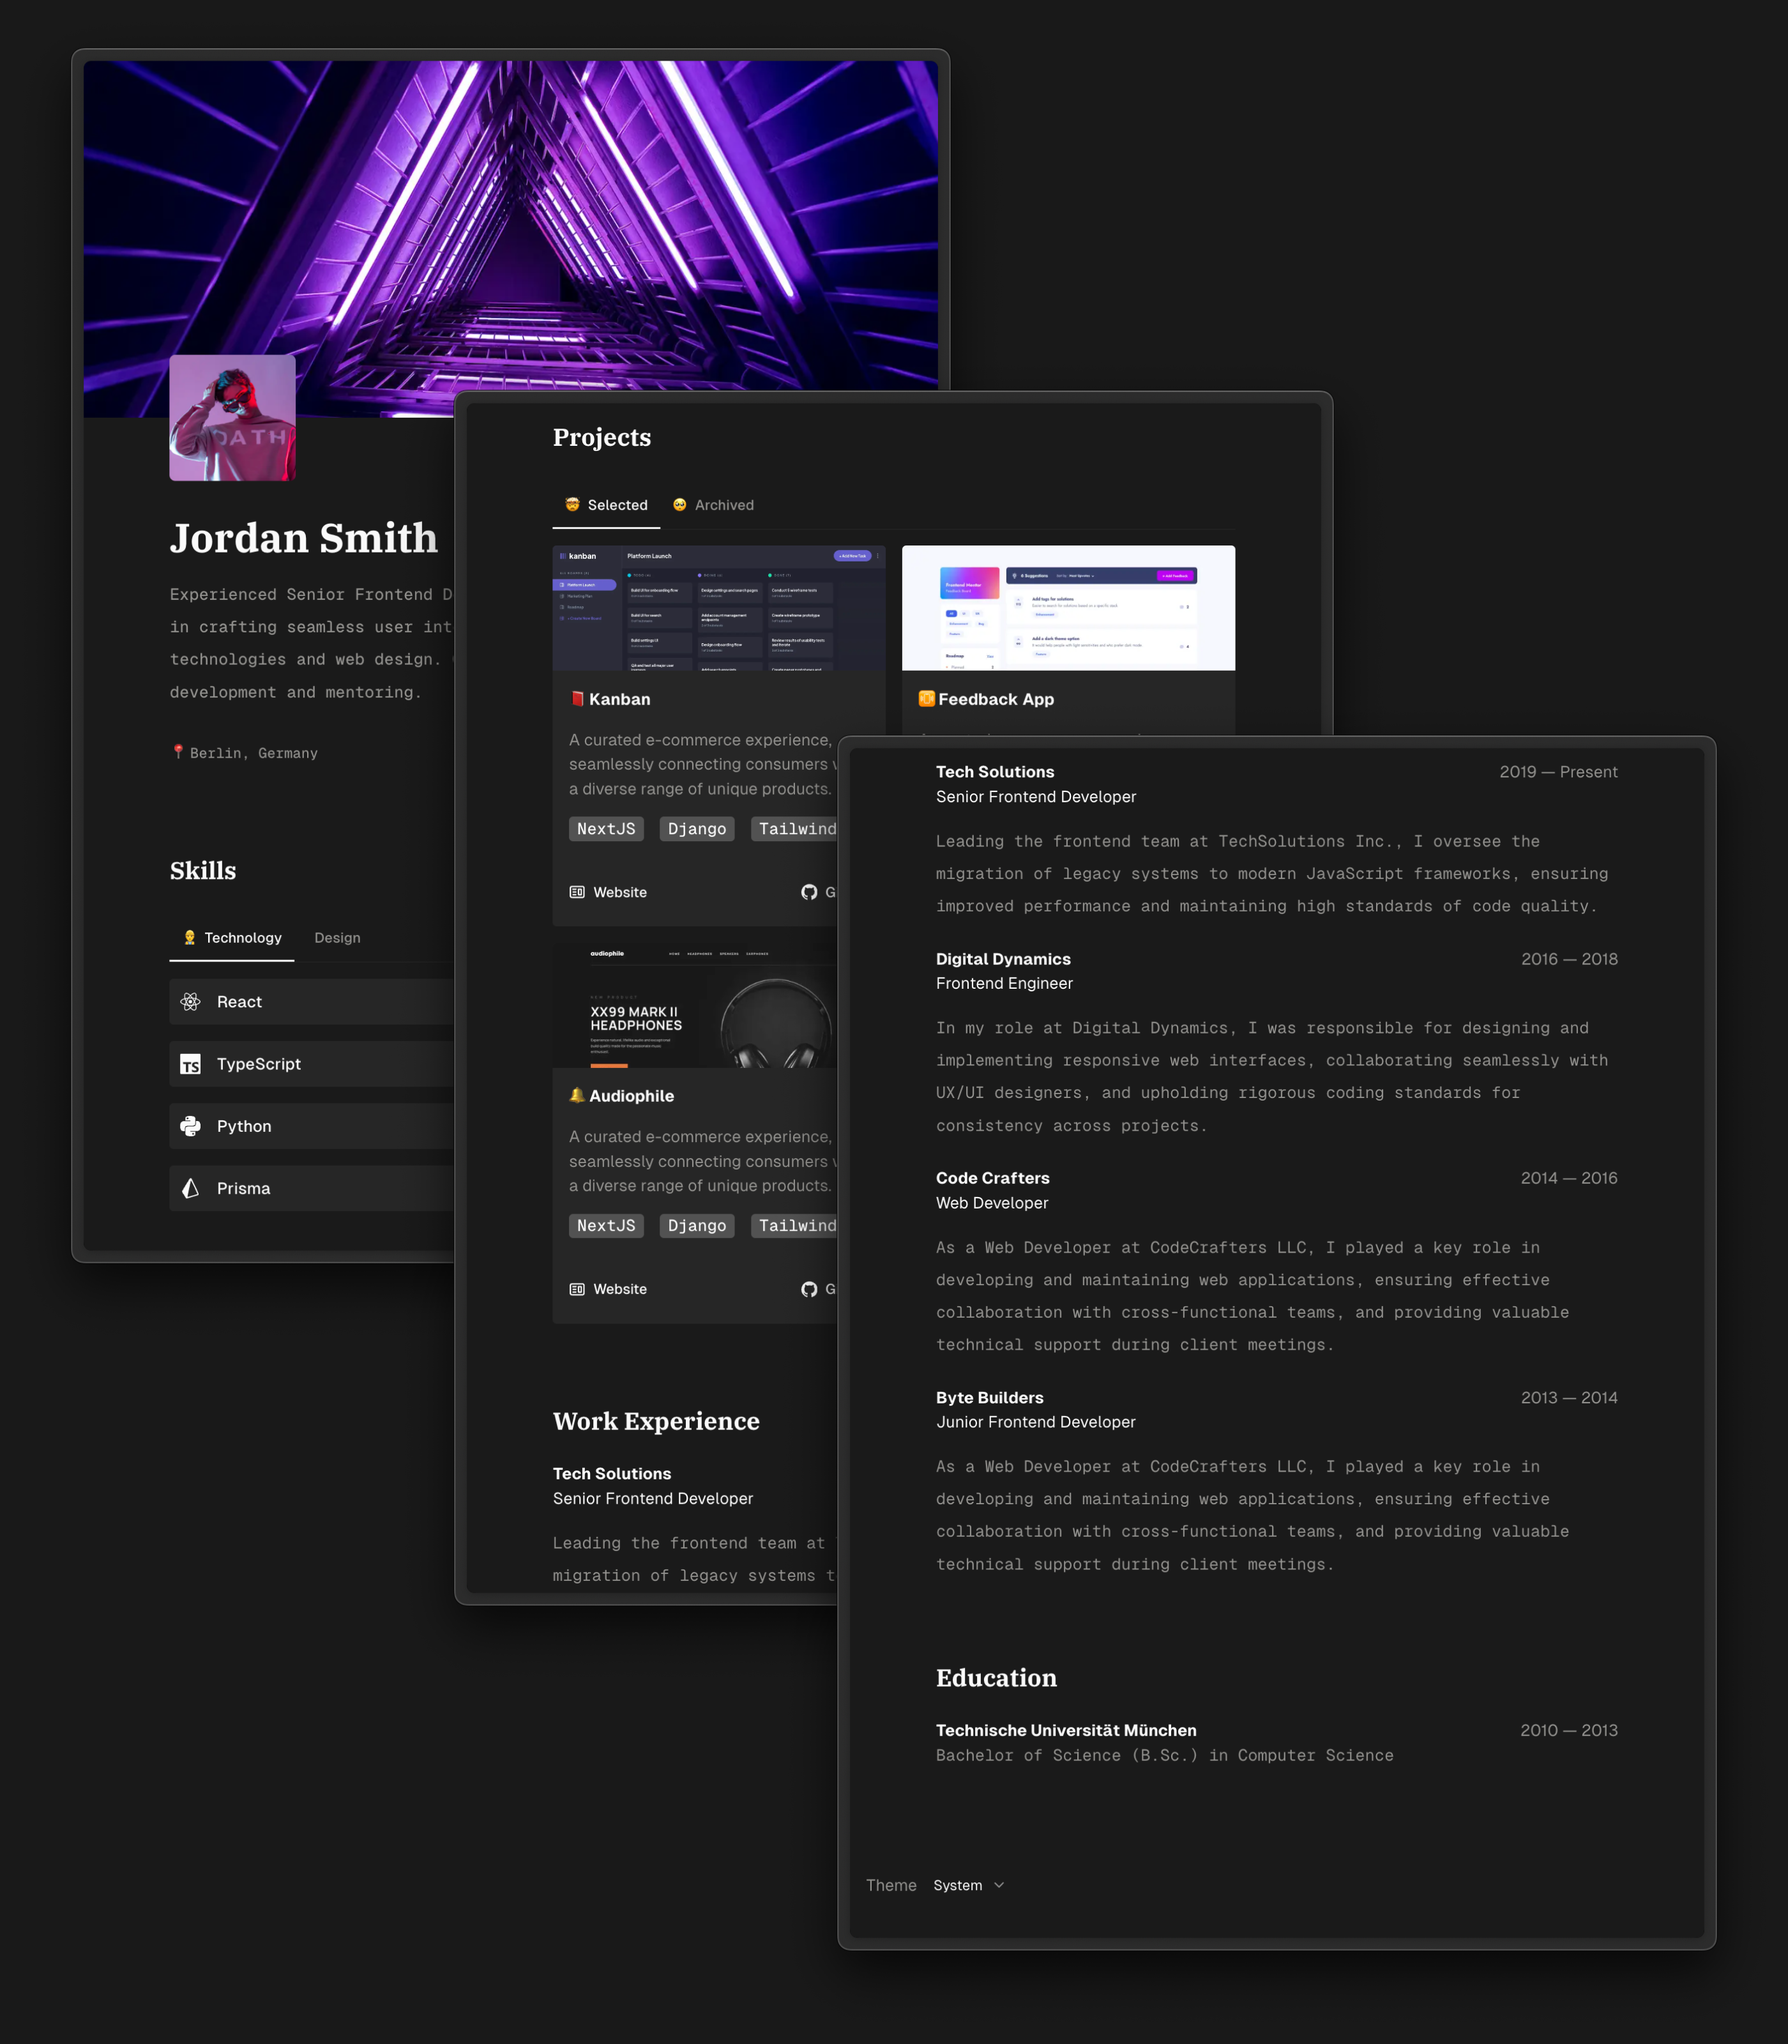
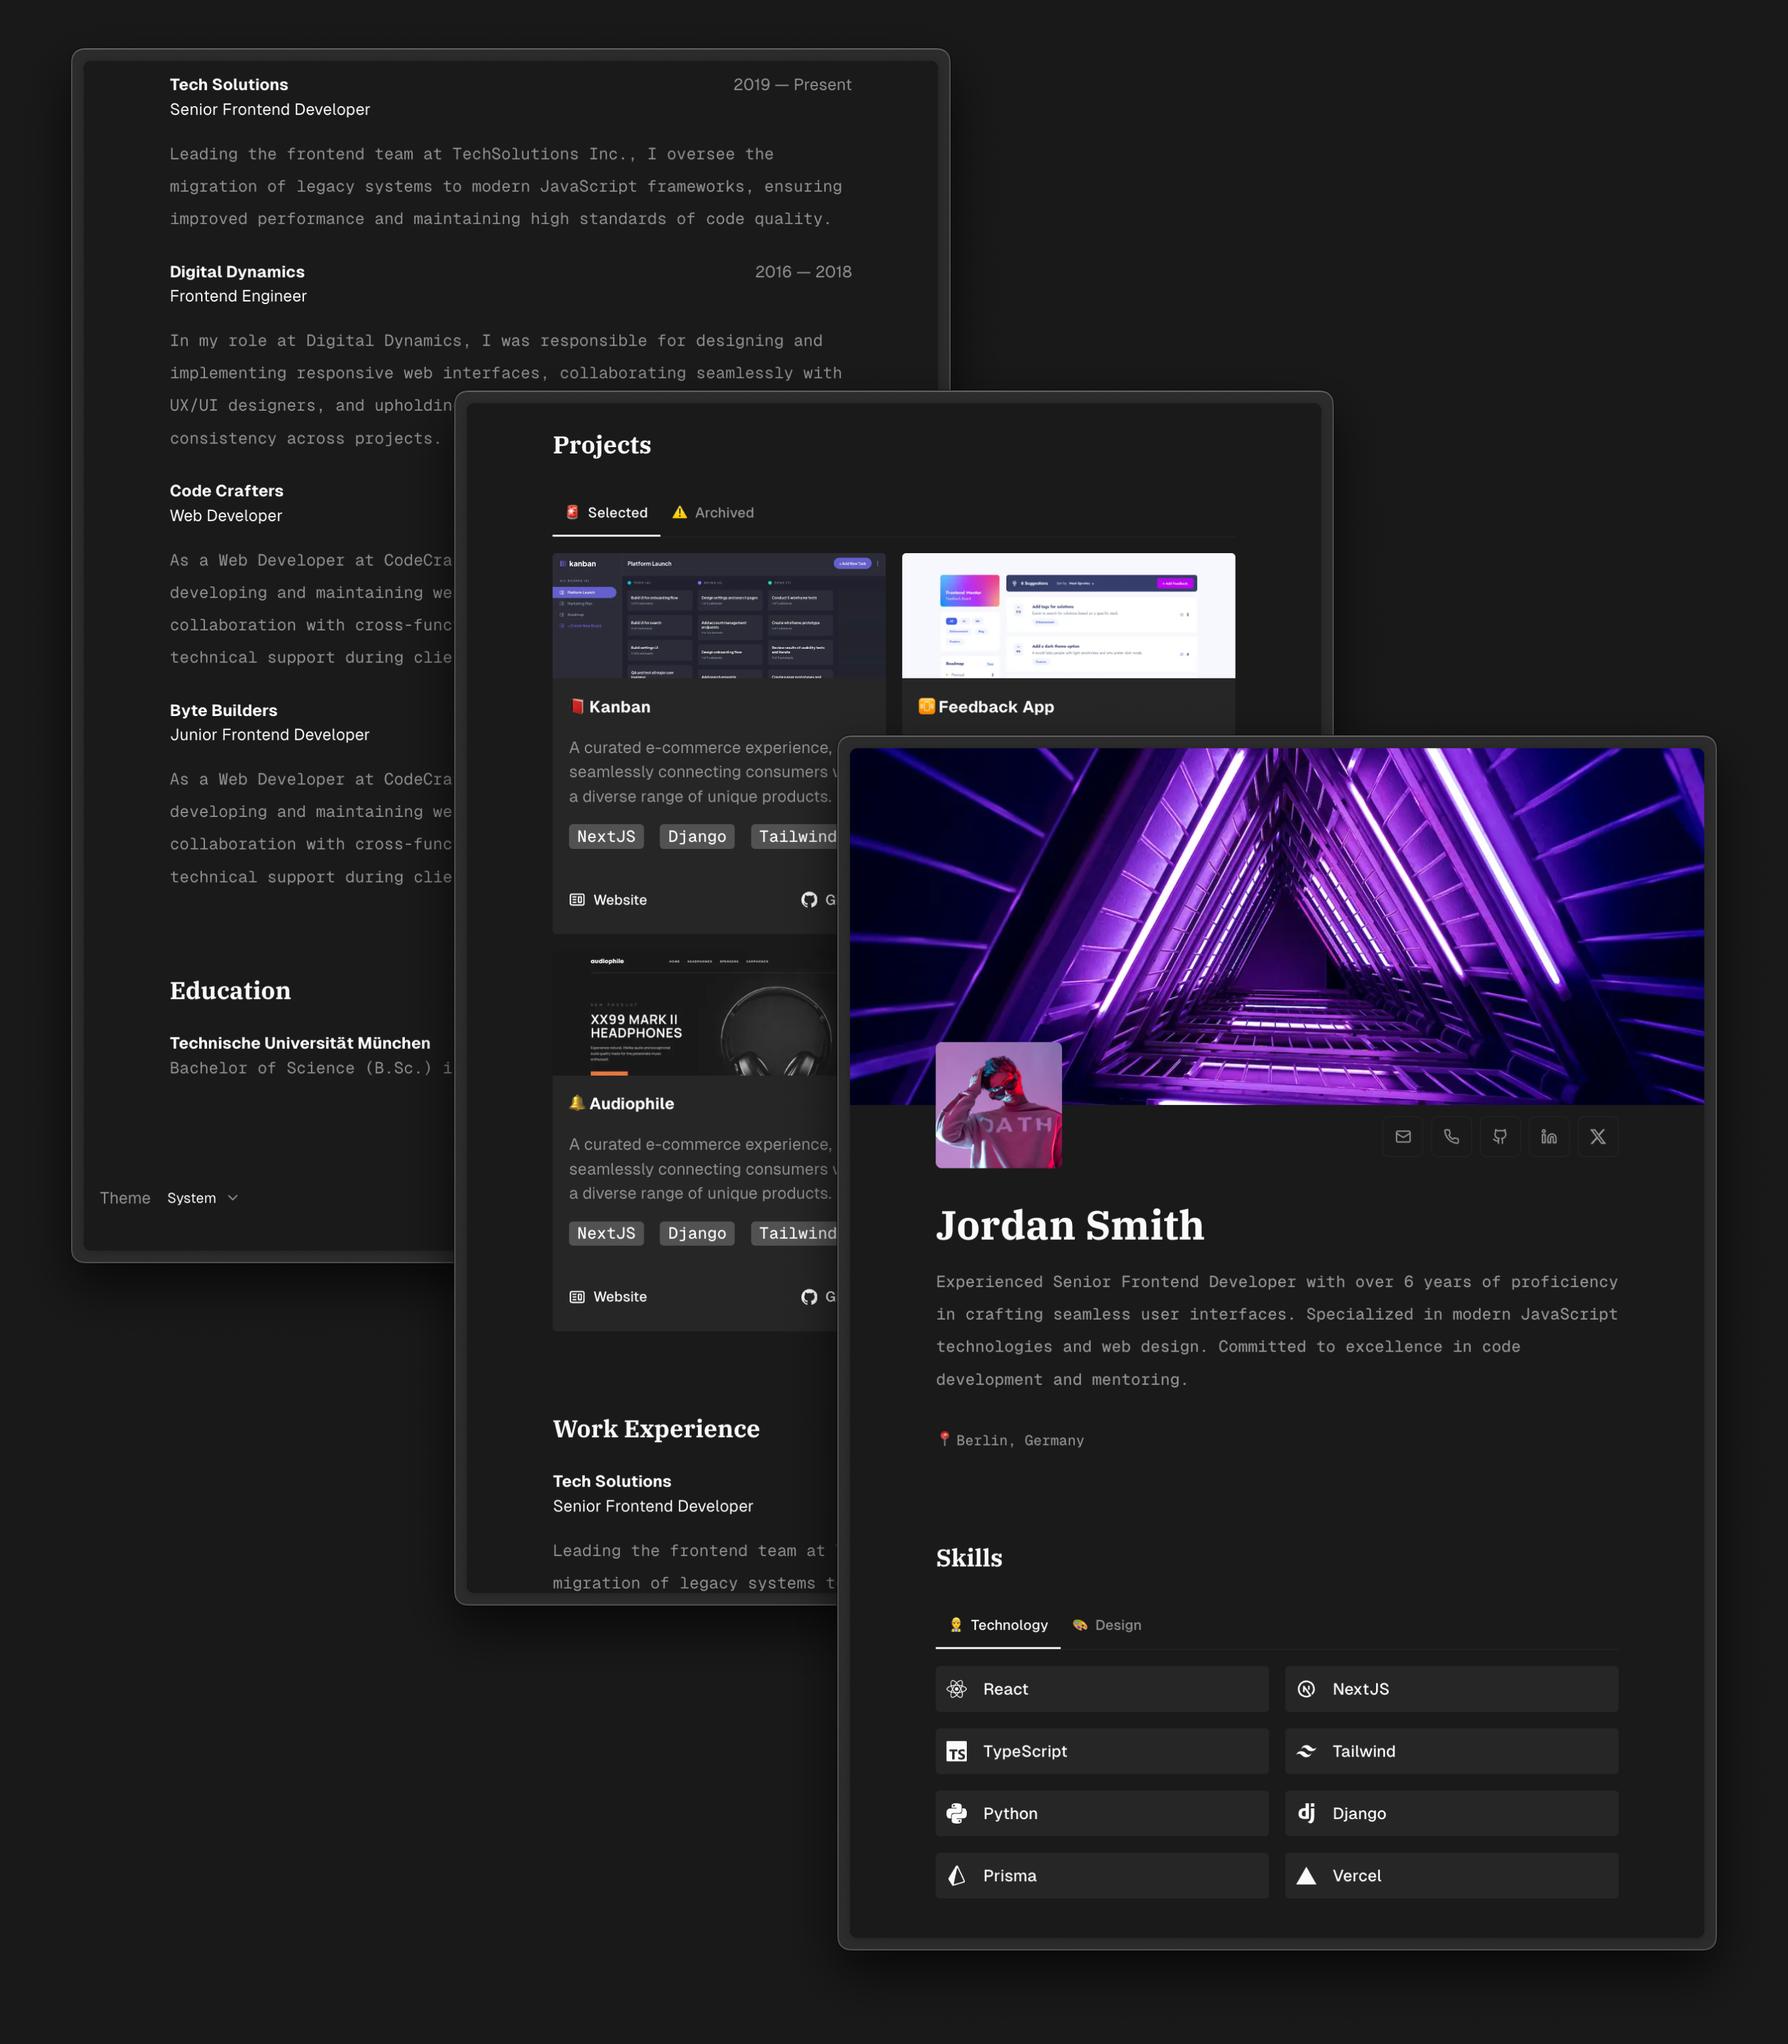
fix: update emoji

diff --git a/config/project.ts b/config/project.ts
@@ -12,7 +12,7 @@ export const projectConfig = {
     {
       title: {
         text: "Selected",
-        emoji: "🤯",
+        emoji: "🚨",
       },
       projects: [
         {
@@ -48,7 +48,7 @@ export const projectConfig = {
     {
       title: {
         text: "Archived",
-        emoji: "🥺",
+        emoji: "⚠",
       },
       projects: [
         {

diff --git a/config/skills.ts b/config/skills.ts
@@ -57,7 +57,7 @@ export const skillsConfig = {
     {
       title: {
         text: "Design",
-        icon: "🎨",
+        emoji: "🎨",
       },
       skills: [
         {
